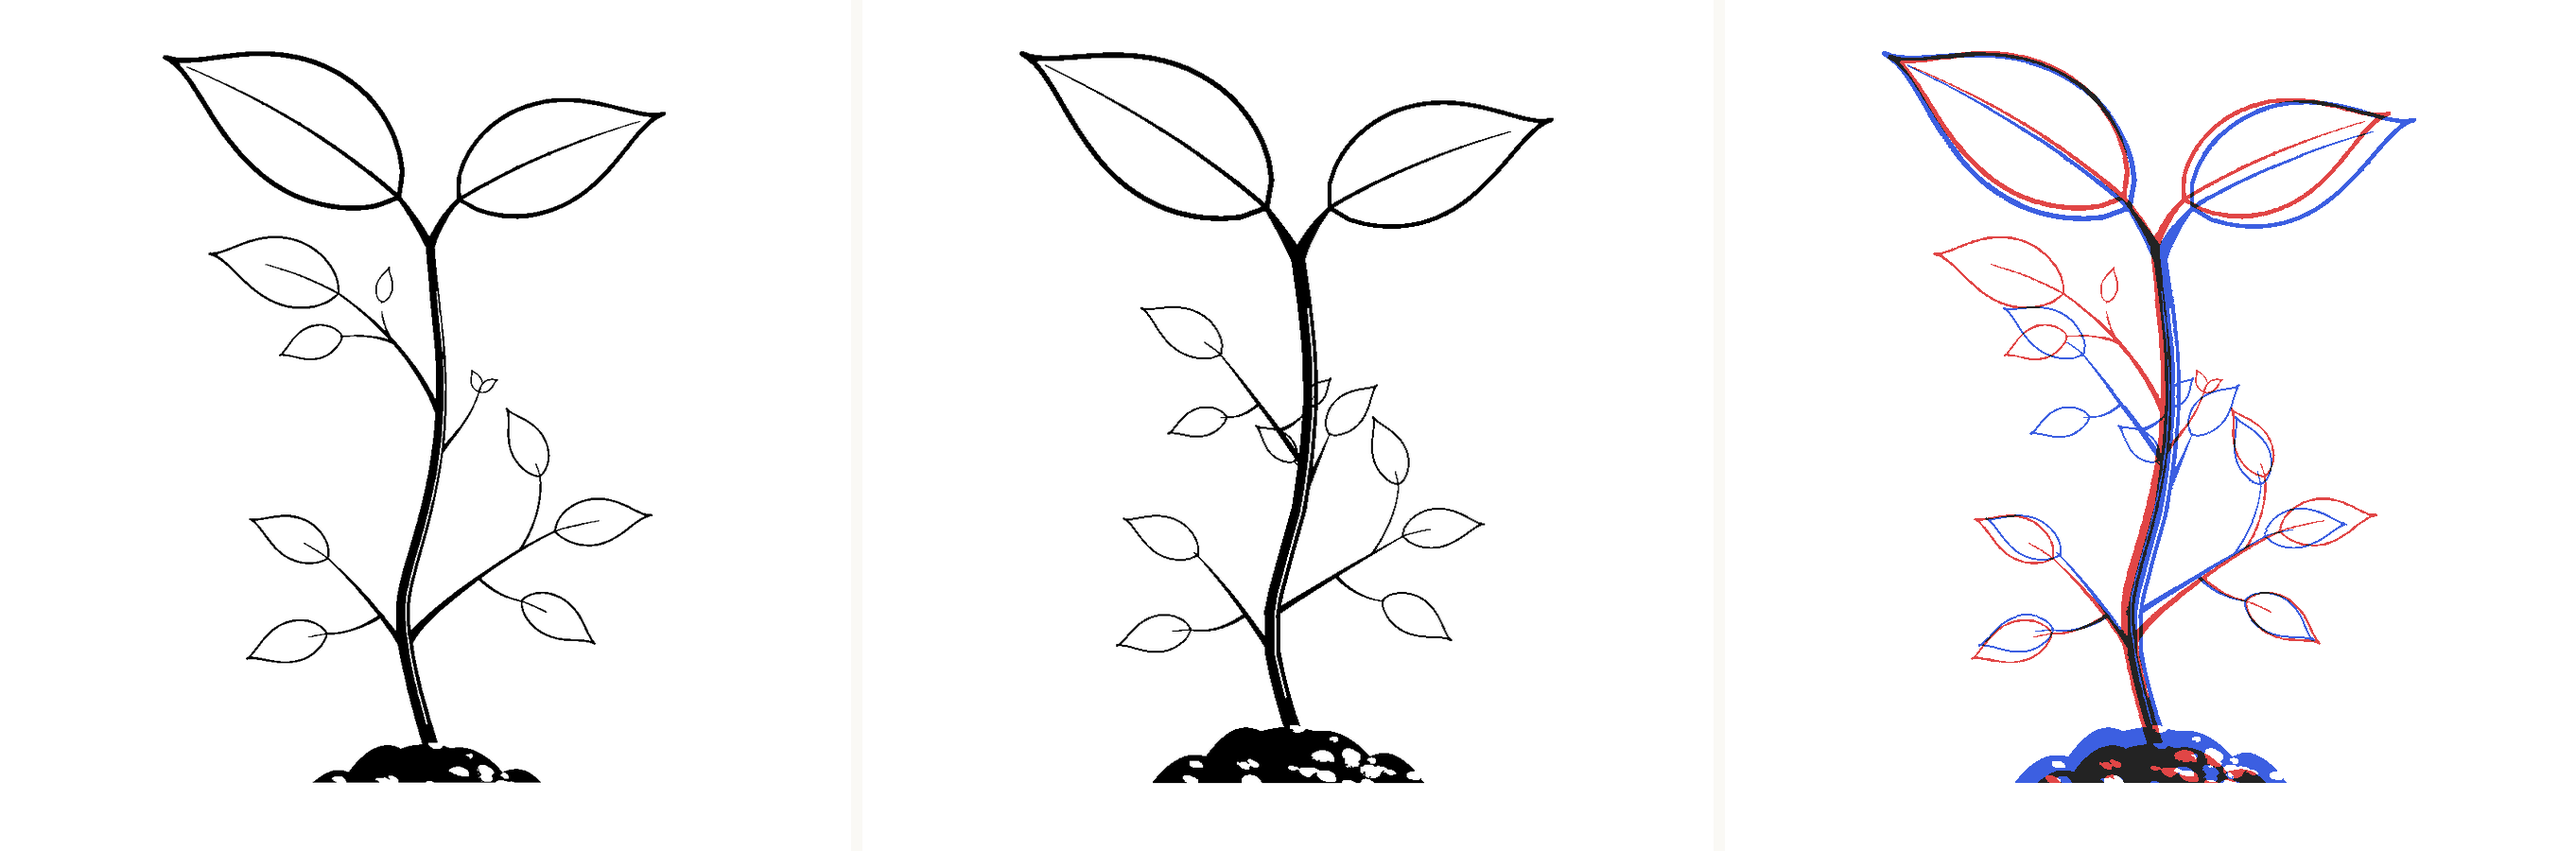
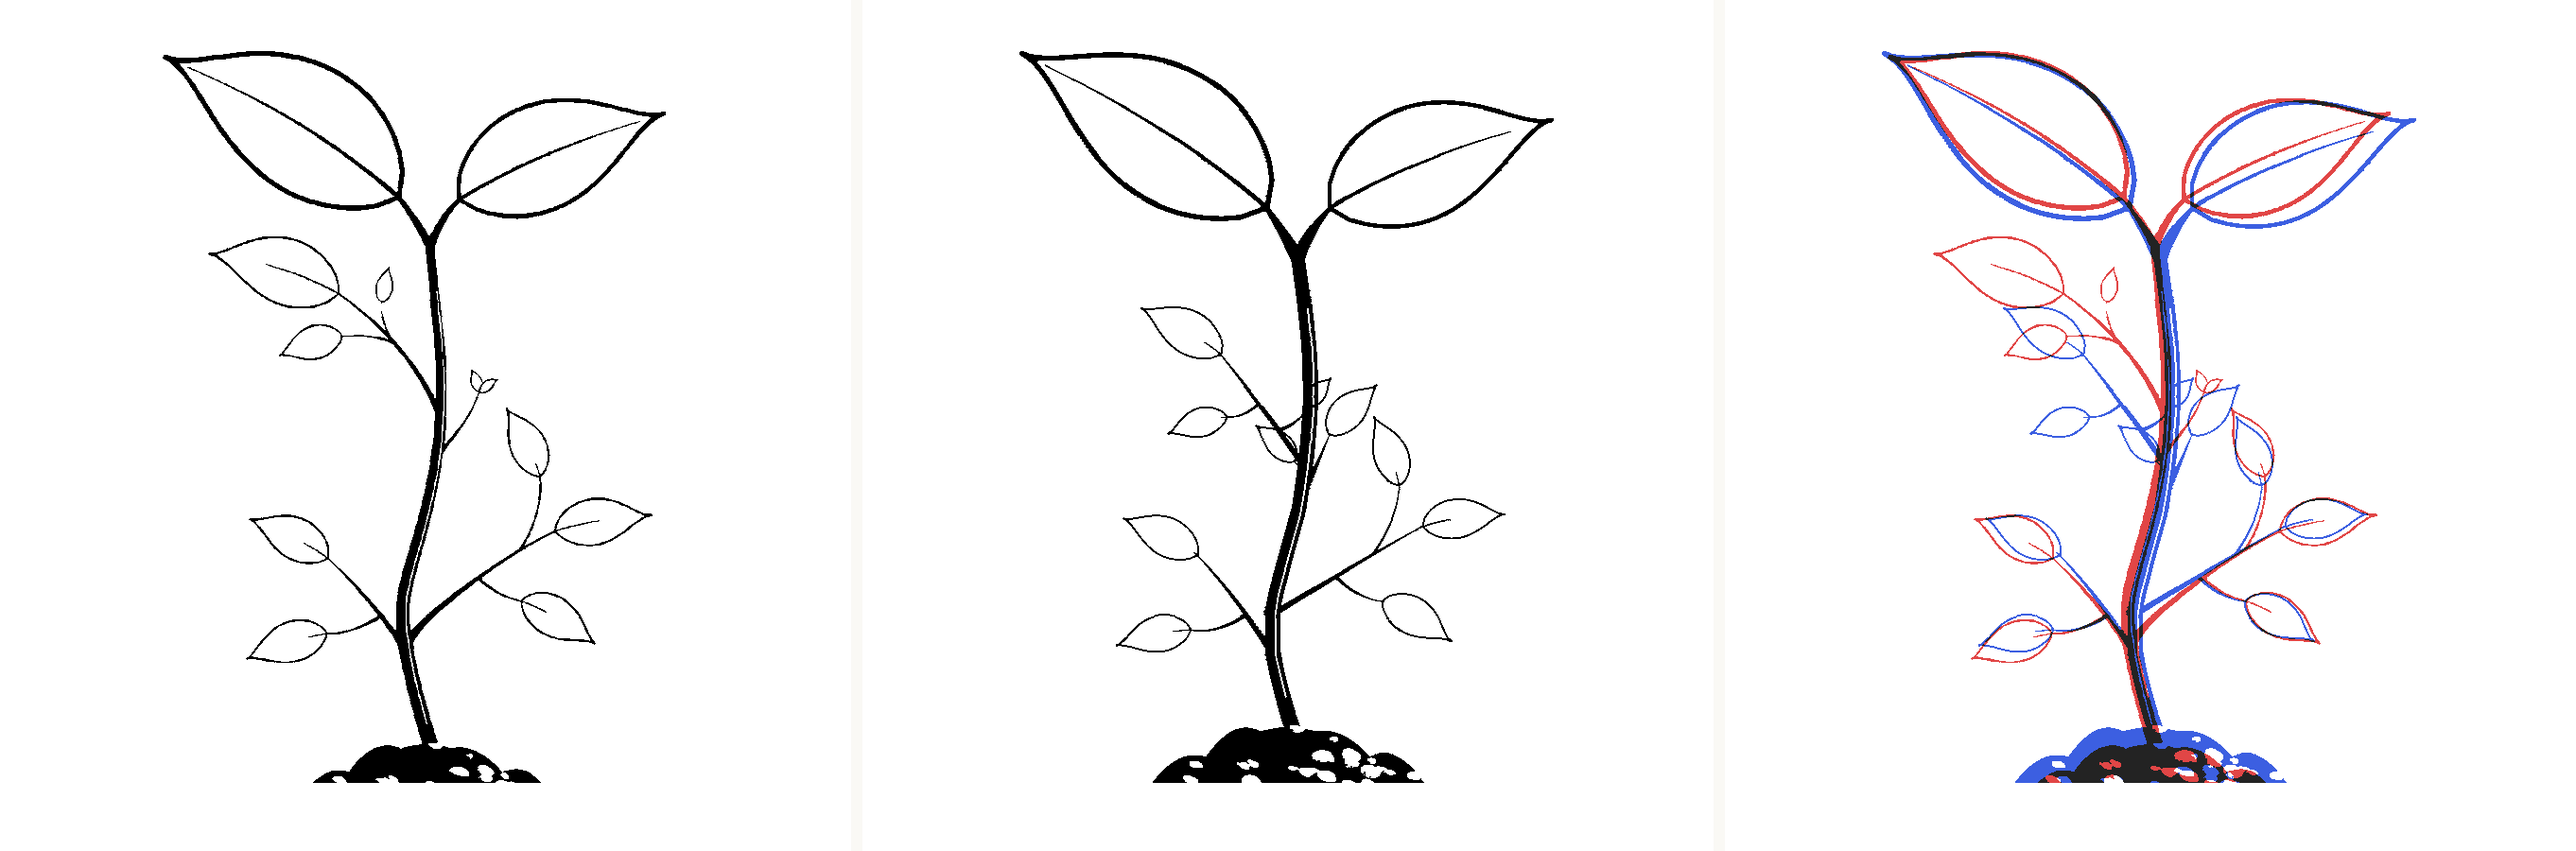
Extend R1's run from its second branch to the furthest leaf
The stretch from the second branch to the tip, three fifths longer, so
four times its original length across the two changes. reach (0.0945,
0.1040) to (0.1090, 0.1200), with both `along` values divided by the
1.1536 the rachis grew by — 0.744 to 0.645 and 0.460 to 0.399 — so
neither branch point moves.

Stages 1, 2 and 3 differ by 0 pixels apiece.

The harness now settles for 26 seconds rather than 12, and that is the
real story of this change. At 12 seconds on a cold start straight after an
install, the cotyledons had not finished opening: the screenshot showed a
plant with a bare fork and no crown, which I reported as the change having
broken the drawing. It had not. The identical geometry renders correctly
given longer, and the revert that followed cost a round trip for nothing.

Both the earlier white-screen capture and this one were the same mistake —
reading a screenshot taken before the app had finished drawing as evidence
about the code.

diff --git a/Written/Views/Tree/SeedlingArt.swift b/Written/Views/Tree/SeedlingArt.swift
@@ -627,7 +627,7 @@ enum SeedlingArt {
             // running into the terminal leaf — two and a half times its length.
             // The rachis as a whole grows by less, 1.1815, since everything
             // below that point keeps its size.
-            reach: CGSize(width: 0.0945, height: 0.1040),
+            reach: CGSize(width: 0.1090, height: 0.1200),
             turn: 18,
             leaflets: [
                 // The second branch, measured as a gap from the first rather
@@ -646,7 +646,7 @@ enum SeedlingArt {
                 // That leaves 0.121 to the terminal leaf at the tip, less than
                 // the gap below it, so the upper pair now sits closer together
                 // than the lower.
-                Leaflet(mirrored: false, axis: -25, scale: 0.23, along: 0.744,
+                Leaflet(mirrored: false, axis: -25, scale: 0.23, along: 0.645,
                         stalkRun: CGSize(width: 0.004, height: -0.074)),
                 Leaflet(mirrored: true, axis: 50, scale: 0.26, along: 1, stalkRun: .zero),
                 // The first branch off the rachis, moved out from the stem by
@@ -657,7 +657,7 @@ enum SeedlingArt {
                 // Its leaf — the lower one, the stalk running right and a little
                 // down — reaches a fifth further along that stalk, (0.040, 0.008)
                 // to (0.048, 0.0096), and grows from 0.23 to 0.25.
-                Leaflet(mirrored: true, axis: 88, scale: 0.25, along: 0.460,
+                Leaflet(mirrored: true, axis: 88, scale: 0.25, along: 0.399,
                         stalkRun: CGSize(width: 0.048, height: 0.0096))
             ]
         ),

diff --git a/tools/canopy_overlay.py b/tools/canopy_overlay.py
@@ -20,9 +20,13 @@ Two traps, both already paid for once:
 * **Location must be granted first.** Otherwise the permission sheet sits over
   the garden and gets measured instead of the plant, which produced a confident
   and entirely wrong "the plant moved 0.139" reading.
-* **Let it settle.** The plant has an entrance animation and the sparkles never
-  stop, so a screenshot taken too early compares two different moments. Ink is
-  compared rather than pixels for the same reason.
+* **Let it settle, and generously.** The plant has an entrance animation and the
+  sparkles never stop, so a screenshot taken too early compares two different
+  moments, and ink is compared rather than pixels for the same reason. Twelve
+  seconds was not enough on a cold start straight after an install: the
+  cotyledons had not opened, the frame looked like a plant with no crown, and a
+  change that was perfectly fine was reported as having broken the drawing and
+  reverted on the strength of it.
 """
 
 from __future__ import annotations
@@ -48,7 +52,7 @@ TEMPLATE = ROOT / "tools" / "reference" / "canopy.png"
 
 DEVICE = "D6B47BF8-65E2-4A9C-88FE-498A94F1C384"
 BUNDLE = "com.written.datingapp"
-SETTLE = 12.0
+SETTLE = 26.0
 
 INK = 125          # below this is a drawn stroke rather than a pale vein
 PANEL = 900        # height each panel is normalised to
